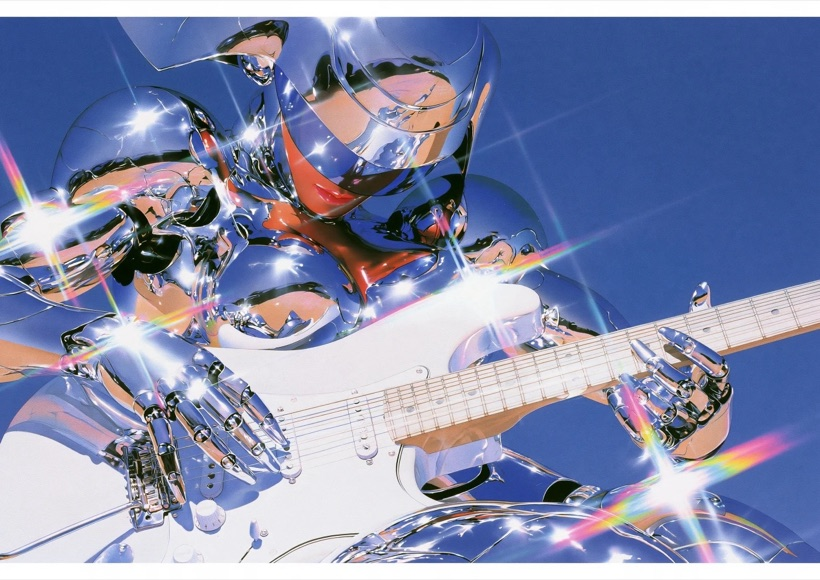
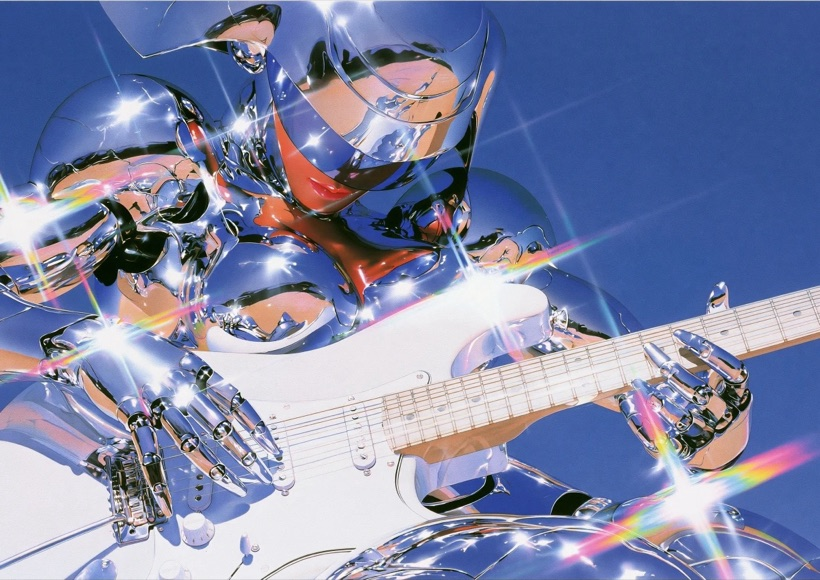
Trabajo: quita el margen blanco de la ilustración del guitarrista
La ilustración original traía un marco en blanco de unos 25px arriba/abajo
y 5px a los lados. Se recorta primero a la caja del contenido (sips
--cropToHeightWidth 845 1334 --cropOffset 25 5) y de ahí al encuadre de la
celda normal, igual que antes. El src sube a ?v=2.

diff --git a/js/data.js b/js/data.js
@@ -161,7 +161,7 @@ const PIEZAS = [
     celdas: [
       { img: 'assets/work/graf-bruja-escalera.jpg?v=2', alt: 'Ilustración de una bruja de traje verde sentada en una escalera eléctrica, con el Empire State y una luna creciente al fondo', alto: 2 },
       { img: 'assets/work/graf-abrigo-cuervos.jpg', alt: 'Ilustración de una mujer envuelta en un abrigo con estampado de cuervos' },
-      { img: 'assets/work/graf-guitarra-robot.jpg', alt: 'Ilustración de una figura cromada con destellos de luz que toca una guitarra eléctrica blanca, contra un cielo azul' },
+      { img: 'assets/work/graf-guitarra-robot.jpg?v=2', alt: 'Ilustración de una figura cromada con destellos de luz que toca una guitarra eléctrica blanca, contra un cielo azul' },
       { img: 'assets/obra/papel-2.jpg', dispositivo: true },
       { img: 'assets/work/graf-cerezas-cigarro.jpg?v=2', alt: 'Ilustración de cuatro cerezas en llamas sobre un plato, con un cigarro encendido recargado en ellas', alto: 2 },
       { img: 'assets/obra/collage.jpg', dispositivo: true },

diff --git a/index.html b/index.html
@@ -20,8 +20,8 @@
 <!-- La tipografía es Helvetica, la del sistema del visitante (ver
      --f-texto en css/tokens.css): no se descarga ninguna fuente. -->
 
-<link rel="stylesheet" href="css/tokens.css?v=101">
-<link rel="stylesheet" href="css/styles.css?v=101">
+<link rel="stylesheet" href="css/tokens.css?v=102">
+<link rel="stylesheet" href="css/styles.css?v=102">
 </head>
 
 <body>
@@ -311,8 +311,8 @@
 
 <script src="https://cdn.jsdelivr.net/npm/gsap@3.12.5/dist/gsap.min.js" defer></script>
 <script src="https://cdn.jsdelivr.net/npm/gsap@3.12.5/dist/ScrollTrigger.min.js" defer></script>
-<script src="js/data.js?v=101" defer></script>
-<script src="js/app.js?v=101" defer></script>
+<script src="js/data.js?v=102" defer></script>
+<script src="js/app.js?v=102" defer></script>
 
 </body>
 </html>
